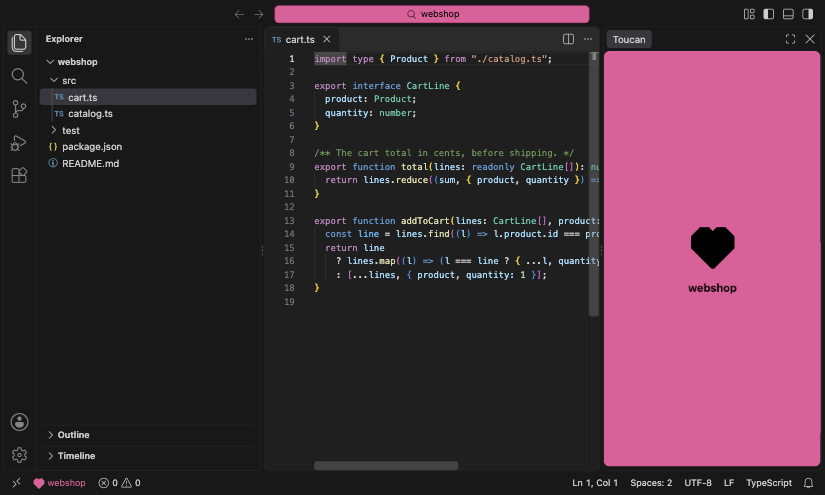
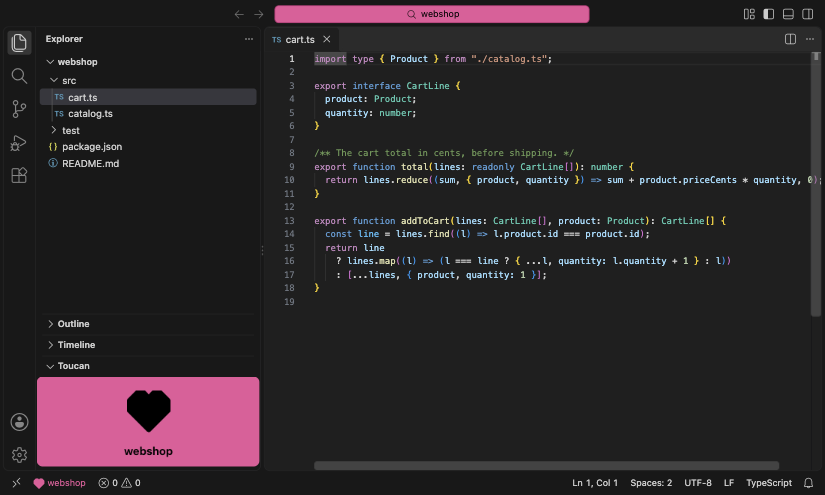
Docs and screenshots for the block in the Explorer
README, site docs, setting text, the screenshot scenes and the two sidebar
images now describe the Explorer and no longer the secondary sidebar or the
unfocused mode. toucan-v1/0006 and 0013 are marked superseded; ADR-0016 points
to the move.

Changed region(s): [[0.5455, 0.0606, 1.0, 0.9697], [0.0303, 0.6364, 0.3333, 0.9697], [0.6667, 0.0606, 0.697, 0.0909]]

diff --git a/apps/site/app/components/features.view.tsx b/apps/site/app/components/features.view.tsx
@@ -45,7 +45,7 @@ const FEATURES: readonly Feature[] = [
   },
   {
     title: "Sidebar block",
-    text: "Optionally fill the secondary sidebar with the color, full or muted. Toucan only closes a bar it opened.",
+    text: "Optionally add a block in the Explorer with the color, full or muted. Hide it and it stays hidden.",
     screenshot: "sidebar-block.png",
     tag: presetClass("Bill Amber"),
     docs: "/docs/sidebar",

diff --git a/apps/site/app/lib/docs.consts.ts b/apps/site/app/lib/docs.consts.ts
@@ -31,8 +31,7 @@ export const DOCS_PAGES: readonly DocsPage[] = [
   {
     slug: "sidebar",
     title: "Sidebar block",
-    description:
-      "The opt-in color block in the secondary sidebar: full or muted, always or unfocused.",
+    description: "The opt-in color block in the Explorer: full or muted, shown until you hide it.",
   },
   {
     slug: "search-emoji",

diff --git a/apps/extension/README.md b/apps/extension/README.md
@@ -8,7 +8,7 @@ _The Command Center follows the focused window; the status bar always shows each
 
 - The Command Center (the search bar in the title bar) takes the focused window's repository color.
 - Every window, focused or not, shows a glyph and the repository name in that color on the status bar.
-- Opt-in extras: a color block in the secondary sidebar, and an experimental colored emoji in the search bar.
+- Opt-in extras: a color block in the Explorer, and an experimental colored emoji in the search bar.
 - One setting for every repository you open, set through commands with a live preview, or by hand.
 
 ## Features
@@ -29,11 +29,15 @@ Every window shows the repository's glyph and name on the left of the status bar
 
 ### Sidebar block
 
-![The sidebar block in the secondary sidebar: the repository's glyph and name on its color](media/readme/sidebar-block.png)
+![The sidebar block in the Explorer: the repository's glyph and name on its color](media/readme/sidebar-block.png)
 
-An opt-in block in the secondary sidebar shows the repository's glyph large, with its name underneath, in the repository color. Turn it on with [`toucan.sidebarBlock.enabled`](#toucansidebarblockenabled) or [Toggle Sidebar Block](#toggle-sidebar-block), choose how strongly it's colored with [`toucan.sidebarBlock.style`](#toucansidebarblockstyle), and when it shows with [`toucan.sidebarBlock.visibility`](#toucansidebarblockvisibility).
+An opt-in block in the Explorer shows the repository's glyph large, with its name underneath, in the repository color. Turn it on with [`toucan.sidebarBlock.enabled`](#toucansidebarblockenabled) or [Toggle Sidebar Block](#toggle-sidebar-block), and choose how strongly it's colored with [`toucan.sidebarBlock.style`](#toucansidebarblockstyle).
 
-When the block goes off (its repository loses its color, or you turn the setting off), Toucan closes the secondary sidebar only if it opened it itself, which only happens in `unfocused` mode. A secondary sidebar you opened stays open.
+VS Code places the block among the Explorer's sections, below the folder tree by default. Drag it where you like (to the top, say) and VS Code remembers the place.
+
+Toucan reveals the block once in each workspace, when it comes on: the first start, the setting turned on, or the repository getting a color. It never expands a block you collapsed. Collapsing it, showing another view such as Search, or hiding the sidebar don't hide it for good. **Hide** from the block's `…` menu does: the block then stays hidden in this workspace until you run [Toggle Sidebar Block](#toggle-sidebar-block).
+
+The old `unfocused` mode is gone. [`toucan.sidebarBlock.visibility`](#toucansidebarblockvisibility) and the per-repository `sidebarBlock` field are deprecated and ignored.
 
 ### Search emoji (experimental)
 
@@ -89,9 +93,9 @@ Run them from the Command Palette, or from the status bar item: click it for Set
 
 ### Toggle Sidebar Block
 
-![The sidebar block in the secondary sidebar: the repository's glyph and name on its color](media/readme/sidebar-block.png)
+![The sidebar block in the Explorer: the repository's glyph and name on its color](media/readme/sidebar-block.png)
 
-**Toucan: Toggle Sidebar Block** shows or hides the [sidebar block](#sidebar-block). If the block is turned off, it offers to turn it on. Closing the block this way counts as your own close in `always` mode, and opening it again forgets that close. A repository needs a color first.
+**Toucan: Toggle Sidebar Block** hides the [sidebar block](#sidebar-block) when it is showing, and shows it when it is hidden or merely collapsed (it expands it). Hiding it this way is remembered for this workspace, and showing it forgets that. If the block is turned off, it offers to turn it on. A repository needs a color first.
 
 ## Settings
 
@@ -108,8 +112,7 @@ Colors per repository, keyed by workspace folder name: the directory name, or th
   "toucan": {
     "background": "#1b5e20",   // required
     "foreground": "#ffffff",   // optional overrides
-    "glyph": "heart",          // optional, default "square"
-    "sidebarBlock": "unfocused"
+    "glyph": "heart"           // optional, default "square"
   }
 }
 ```
@@ -119,13 +122,13 @@ A value is either a color string, the Command Center background with everything 
 - `background` (required): the Command Center background.
 - `foreground`, `activeBackground`, `activeForeground`, `border`, `activeBorder`, `inactiveForeground`, `inactiveBorder` (optional): override the Command Center's derived `commandCenter.*` colors. Colors derived from one you override build on your value.
 - `glyph` (optional): the status bar glyph, default `square` (see [Set Glyph](#set-glyph)).
-- `sidebarBlock` (optional): `always` or `unfocused`, overriding [`toucan.sidebarBlock.visibility`](#toucansidebarblockvisibility) for this repository.
+- `sidebarBlock` (optional): deprecated and ignored, see [`toucan.sidebarBlock.visibility`](#toucansidebarblockvisibility).
 
 ### toucan.sidebarBlock.enabled
 
-![The sidebar block in the secondary sidebar: the repository's glyph and name on its color](media/readme/sidebar-block.png)
+![The sidebar block in the Explorer: the repository's glyph and name on its color](media/readme/sidebar-block.png)
 
-Shows the [sidebar block](#sidebar-block) in the secondary sidebar, for repositories with a color. Off by default.
+Shows the [sidebar block](#sidebar-block) in the Explorer, for repositories with a color. Off by default.
 
 ### toucan.sidebarBlock.style
 
@@ -135,12 +138,9 @@ How strongly the sidebar block is colored: `full` (default) is the solid reposit
 
 ### toucan.sidebarBlock.visibility
 
-![The sidebar block in the secondary sidebar: the repository's glyph and name on its color](media/readme/sidebar-block.png)
+![The sidebar block in the Explorer: the repository's glyph and name on its color](media/readme/sidebar-block.png)
 
-When the sidebar block is shown. A repository's own `sidebarBlock` in [`toucan.repos`](#toucanrepos) overrides it.
-
-- `always` (default) reveals the block on startup. Once you close it, or switch the secondary sidebar to another view, it stays closed in this workspace until you open it again with Toggle Sidebar Block.
-- `unfocused` reveals it when the window loses focus, and closes the secondary sidebar again on focus if Toucan opened it. If another view such as Chat was open in the secondary sidebar, it is closed too.
+Deprecated and ignored. The sidebar block used to have an `unfocused` mode that showed it only when the window lost focus; it is gone, and every block behaves as `always`: shown while it is on, until you hide it. A leftover `unfocused` value (here or in a repository's `sidebarBlock`) does nothing, and the setting will be removed in a later release.
 
 ### toucan.experimental.searchEmoji
 

diff --git a/apps/site/content/docs/sidebar.md b/apps/site/content/docs/sidebar.md
@@ -1,6 +1,8 @@
-![The sidebar block in the secondary sidebar: the repository's glyph and name on its color](sidebar-block.png)
+![The sidebar block in the Explorer: the repository's glyph and name on its color](sidebar-block.png)
 
-An opt-in block in the secondary sidebar shows the repository's glyph large, with its name underneath, in the repository color. Turn it on with [`toucan.sidebarBlock.enabled`](/docs/settings#toucansidebarblockenabled) or **Toucan: Toggle Sidebar Block**.
+An opt-in block in the Explorer shows the repository's glyph large, with its name underneath, in the repository color. Turn it on with [`toucan.sidebarBlock.enabled`](/docs/settings#toucansidebarblockenabled) or **Toucan: Toggle Sidebar Block**.
+
+VS Code places the block among the Explorer's sections, below the folder tree by default. Drag it where you like (to the top, say) and VS Code remembers the place.
 
 ## Style
 
@@ -8,11 +10,10 @@ An opt-in block in the secondary sidebar shows the repository's glyph large, wit
 
 [`toucan.sidebarBlock.style`](/docs/settings#toucansidebarblockstyle) sets how strongly it's colored: `full` (default) is the solid repository color; `muted` is a faint tint with the glyph in full color and the name in the theme's text color.
 
-## When it shows
+## Showing and hiding
 
-[`toucan.sidebarBlock.visibility`](/docs/settings#toucansidebarblockvisibility) sets when it's shown, and a repository's own `sidebarBlock` in `toucan.repos` overrides it:
+Toucan reveals the block once in each workspace, when it comes on: the first start, the setting turned on, or the repository getting a color. It never expands a block you collapsed.
 
-- `always` (default) reveals the block on startup. Once you close it, or switch the secondary sidebar to another view, it stays closed in this workspace until you open it again with Toggle Sidebar Block.
-- `unfocused` reveals it when the window loses focus, and closes the secondary sidebar again on focus if Toucan opened it. If another view such as Chat was open in the secondary sidebar, it is closed too.
+Collapsing the block, showing another view such as Search, or hiding the sidebar don't hide it for good. **Hide** from the block's `…` menu does, and so does **Toucan: Toggle Sidebar Block** while the block is showing. A hidden block stays hidden in this workspace until you run Toggle Sidebar Block again, which also expands a block that is merely collapsed.
 
-When the block goes off (its repository loses its color, or you turn the setting off), Toucan closes the secondary sidebar only if it opened it itself. A secondary sidebar you opened stays open.
+The old `unfocused` mode is gone. [`toucan.sidebarBlock.visibility`](/docs/settings#toucansidebarblockvisibility) and a repository's `sidebarBlock` field are deprecated and ignored.

diff --git a/apps/site/content/docs/settings.md b/apps/site/content/docs/settings.md
@@ -13,8 +13,7 @@ Colors per repository, keyed by workspace folder name: the directory name, or th
   "toucan": {
     "background": "#1b5e20",   // required
     "foreground": "#ffffff",   // optional overrides
-    "glyph": "heart",          // optional, default "square"
-    "sidebarBlock": "unfocused"
+    "glyph": "heart"           // optional, default "square"
   }
 }
 ```
@@ -24,13 +23,13 @@ A value is either a color string, the Command Center background with everything 
 - `background` (required): the Command Center background.
 - `foreground`, `activeBackground`, `activeForeground`, `border`, `activeBorder`, `inactiveForeground`, `inactiveBorder` (optional): override the Command Center's derived `commandCenter.*` colors.
 - `glyph` (optional): the status bar [glyph](/docs/glyphs), default `square`.
-- `sidebarBlock` (optional): `always` or `unfocused`, overriding `toucan.sidebarBlock.visibility` for this repository.
+- `sidebarBlock` (optional): deprecated and ignored, see `toucan.sidebarBlock.visibility`.
 
 ## toucan.sidebarBlock.enabled
 
 Default: `false`
 
-Shows the [sidebar block](/docs/sidebar) in the secondary sidebar, for repositories with a color. Off by default.
+Shows the [sidebar block](/docs/sidebar) in the Explorer, for repositories with a color. Off by default.
 
 ## toucan.sidebarBlock.style
 
@@ -42,7 +41,7 @@ How strongly the sidebar block is colored: `full` (default) or `muted`.
 
 Default: `"always"`
 
-When the sidebar block is shown: `always` (default) or `unfocused`. A repository's own `sidebarBlock` in `toucan.repos` overrides it.
+Deprecated and ignored. The sidebar block's `unfocused` mode is gone; every block behaves as `always`, shown while it is on until you hide it. A leftover value does nothing, and the setting will be removed in a later release.
 
 ## toucan.experimental.searchEmoji
 

diff --git a/docs/adr/0016-toucan-is-a-vs-code-extension.md b/docs/adr/0016-toucan-is-a-vs-code-extension.md
@@ -12,7 +12,7 @@
 Toucan 1.0.0 is on the Visual Studio Marketplace. The plan had Open VSX as step 2, for the editors built on VS Code that can't use the Marketplace. Checked on 2026-10-04:
 
 - Their VS Code bases are older than Toucan's `engines.vscode` floor of `^1.138.0`: Cursor is on 1.128, Windsurf on 1.126, VSCodium on 1.135. Published as it is, Toucan wouldn't install in any of them.
-- They differ where Toucan works: Cursor reserves the secondary sidebar (Toucan's optional sidebar block) and turns the Command Center (where Toucan shows the focused window's color) off by default.
+- They differ where Toucan works: Cursor reserves the secondary sidebar (where Toucan's optional sidebar block used to live; since [sidebar-explorer/0001](../plans/sidebar-explorer/decisions/0001-move-the-sidebar-block-into-the-explorer.md) it sits in the Explorer and no longer needs it) and turns the Command Center (where Toucan shows the focused window's color) off by default.
 
 Supporting them would mean lowering the engine floor, testing in each editor, and following their changes.
 

diff --git a/docs/plans/toucan-v1/decisions/0013-make-the-sidebar-block-style-and-visibility-configurable.md b/docs/plans/toucan-v1/decisions/0013-make-the-sidebar-block-style-and-visibility-configurable.md
@@ -1,6 +1,6 @@
 # 0013. Make the sidebar block style and visibility configurable
 
-- Status: Accepted
+- Status: Partly superseded: the visibility modes by [sidebar-explorer/0002](../../sidebar-explorer/decisions/0002-drop-the-unfocused-visibility-mode.md), and what counts as a close and Toggle Sidebar Block by [sidebar-explorer/0006](../../sidebar-explorer/decisions/0006-hide-the-block-through-its-when-clause.md). The `full`/`muted` style stands.
 - Date: 2026-10-01
 - Deciders: Marco
 

diff --git a/docs/plans/toucan-v1/decisions/0006-offer-an-opt-in-secondary-sidebar-color-block.md b/docs/plans/toucan-v1/decisions/0006-offer-an-opt-in-secondary-sidebar-color-block.md
@@ -1,6 +1,6 @@
 # 0006. Offer an opt-in secondary sidebar color block
 
-- Status: Accepted
+- Status: Superseded by [sidebar-explorer/0001](../../sidebar-explorer/decisions/0001-move-the-sidebar-block-into-the-explorer.md): the block moved from the secondary sidebar to the Explorer
 - Date: 2026-10-01
 - Deciders: Marco
 
